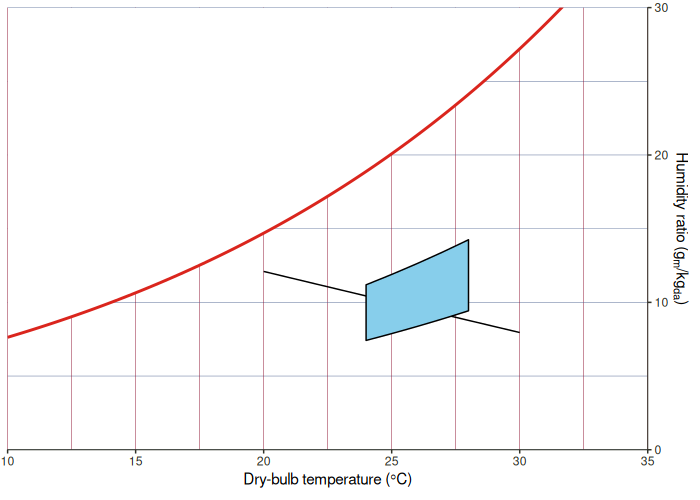
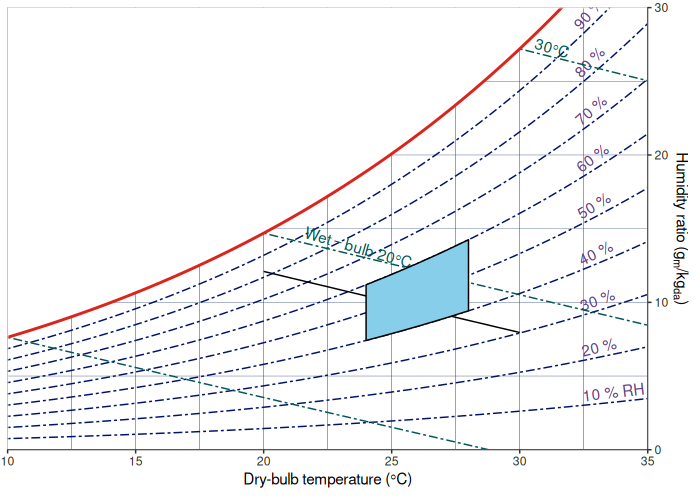
Update README.

diff --git a/README.md b/README.md
@@ -88,16 +88,14 @@ between each value.
 
 ``` r
 ggpsychro() +
-    geom_grid_relhum(step = 20) +
-    geom_grid_wetbulb(step = 15) +
-    geom_grid_vappres(step = 1000) +
-    geom_grid_specvol(step = 0.05) +
-    geom_grid_enthalpy(step = 50)
+    geom_grid_relhum(step = 20, label_loc = 0.8) +
+    geom_grid_wetbulb(step = 15, label_loc = 0.1) +
+    geom_grid_vappres(step = 1000, label = c(1000, 3000, 5000), label_loc = 0.95) +
+    geom_grid_specvol(step = 0.05, label_loc = 0.9) +
+    geom_grid_enthalpy(step = 50, label_loc = 0.9)
 ```
 
 <img src="man/figures/README-grid-1.png" width="60%" style="display: block; margin: auto;" />
-
-Every geom comes together with an
 
 ### Stat
 
@@ -121,10 +119,9 @@ Working together with ggplot2 orignal geoms is as simple as change
 library(ggplot2)
 library(eplusr) # for reading EPW data
 epw <- read_epw(file.path(eplus_config(8.8)$dir, "WeatherData/USA_CO_Golden-NREL.724666_TMY3.epw"))
-data <- epw$data()
 
-ggpsychro(epw$data()) +
-    geom_grid_relhum(step = 10) +
+ggpsychro(epw$data()[month %in% 5:8]) +
+    geom_grid_relhum(step = 10, label_loc = 0.9) +
     geom_point(aes(dry_bulb_temperature, relative_humidity), stat = "rel_hum", alpha = 0.1) +
     facet_wrap(~month, labeller = as_labeller(function (x) paste0("Month: ", x)))
 ```
@@ -133,6 +130,8 @@ ggpsychro(epw$data()) +
 
 ``` r
 ggpsychro(tdb_lim = c(10, 35), hum_lim = c(0, 30)) +
+    geom_grid_relhum(step = 10, label_loc = 0.9) +
+    geom_grid_wetbulb(step = 10, label_loc = 0.1) +
     # 18 wet-bulb line with dry-bulb from 20 - 30
     geom_line(aes(x = 20:30, y = 18), stat = "wet_bulb") +
     # temperature range 24-28 with relative humidity from 40%-60%
